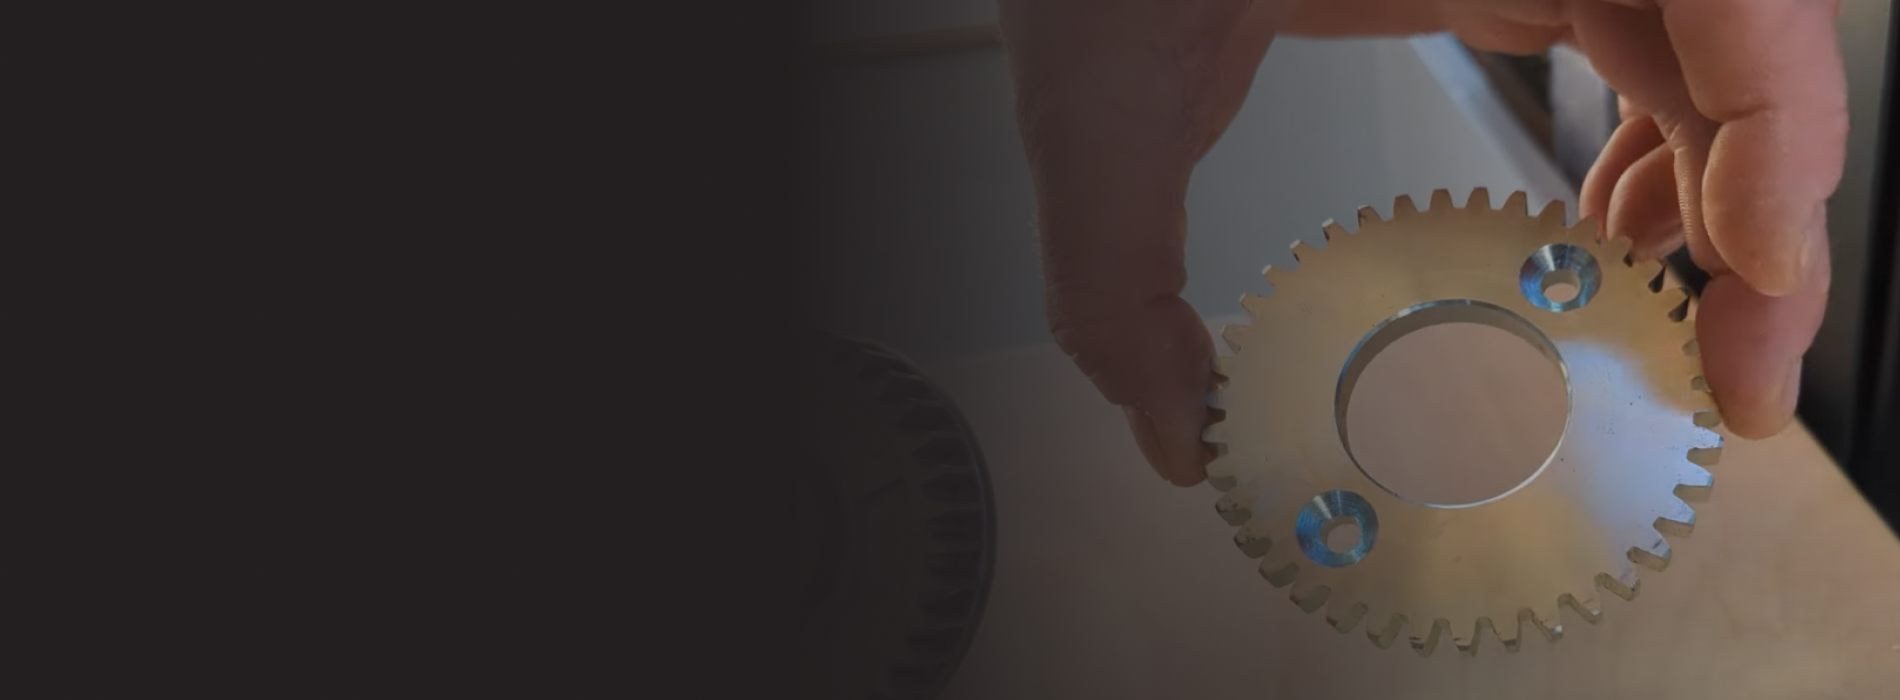
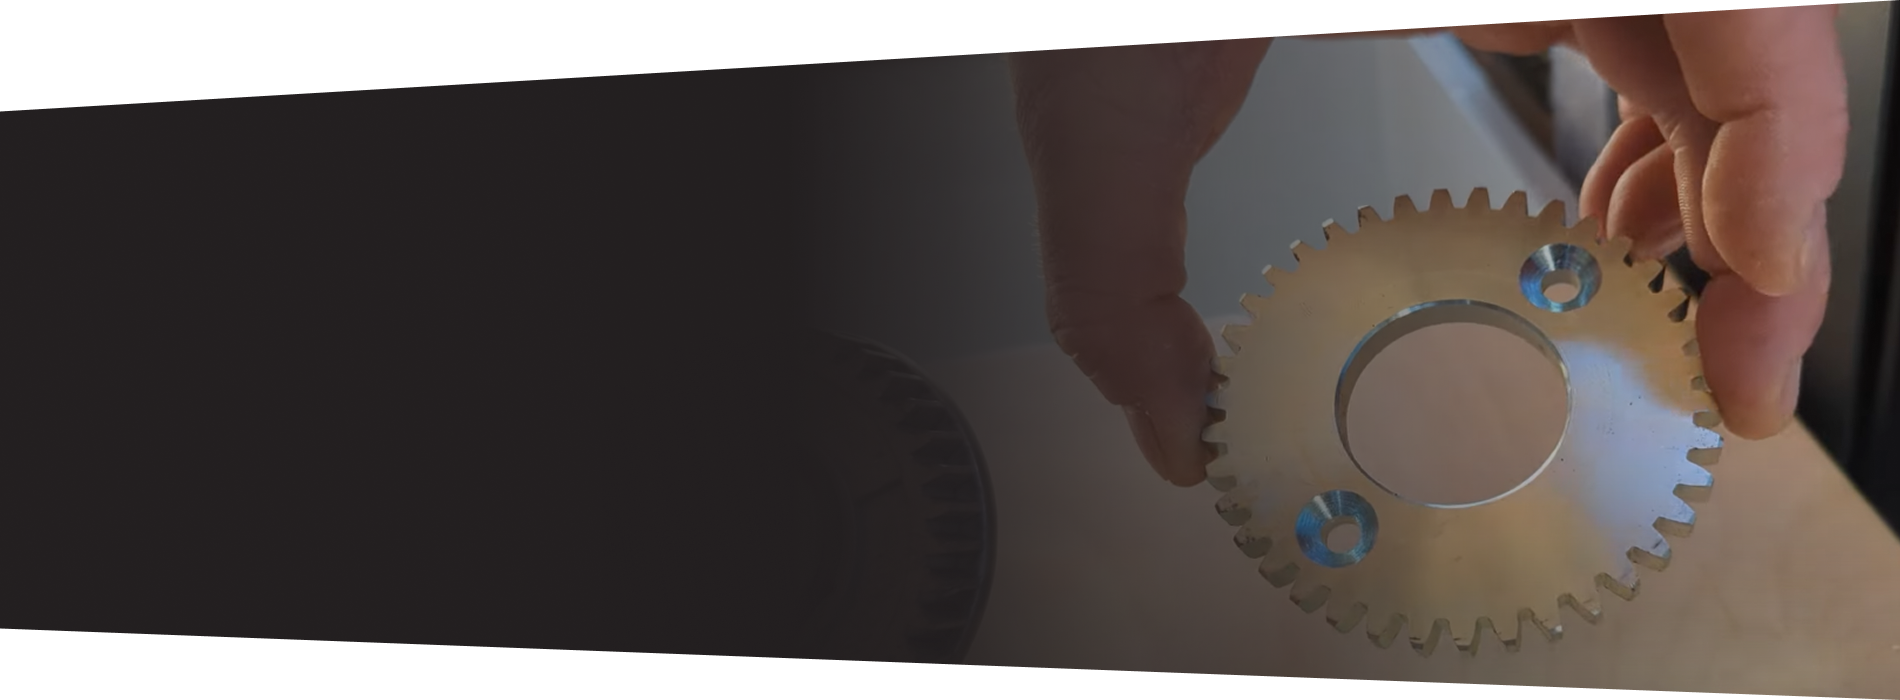
Improve optimized section

Changed region(s): [[0.0, 0.0, 0.9937, 0.18], [0.0, 0.9, 0.9937, 1.0]]

diff --git a/src/modules/home/components/optimiert.tsx b/src/modules/home/components/optimiert.tsx
@@ -12,12 +12,12 @@ const SeriesCircle = ({
   isActive: boolean;
 }) => (
   <div
-    className={`relative flex h-12 w-12 items-center justify-center rounded-full border border-white bg-grey-90/80 sm:h-20 sm:w-20 ${
+    className={`relative flex h-12 w-12 items-center justify-center rounded-full border border-white bg-grey-90/80 lg:h-20 lg:w-20 ${
       isActive ? "" : "opacity-50"
     }`}
     style={{ boxShadow: "inset 0 0 0 4px #ED1C24" }}
   >
-    <span className="text-2xl font-bold text-white sm:text-4xl">{number}</span>
+    <span className="text-2xl font-bold text-white lg:text-4xl">{number}</span>
   </div>
 );
 
@@ -41,7 +41,7 @@ const Timeline = () => (
 const OptimiertSection = () => {
   const t = useTranslations("home.optimized");
   return (
-    <section className="relative w-full overflow-hidden bg-grey-90 sm:h-[700px]">
+    <section className="relative w-full overflow-hidden sm:h-[700px]">
       {/* Desktop background */}
       <img
         src={Hintergrund.src}
@@ -54,15 +54,12 @@ const OptimiertSection = () => {
         className="absolute block h-full w-full object-cover sm:hidden"
         alt="Optimiert mobil"
       />
-      <div className="absolute inset-0 bg-grey-90 opacity-50"></div>
-      <div className="relative z-10 flex h-full w-full flex-col content-center items-end justify-between gap-y-5 px-5 py-12 sm:items-center sm:px-10 sm:py-24 xl:flex-row 2xl:px-24 xlarge:px-40">
+      <div className="relative z-10 flex h-full w-full flex-col place-content-center gap-y-5 px-5 py-12 max-sm:items-end sm:gap-y-10 sm:px-10 sm:py-24 lg:justify-between xl:flex-row xl:items-center 2xl:px-24 xlarge:px-40">
         <div className="flex flex-col gap-y-5 sm:gap-y-16">
-          <h2 className="font-title text-4xl uppercase text-white sm:text-7xl">
+          <h2 className="font-title text-4xl uppercase text-white sm:text-6xl">
             {t("title")}
           </h2>
-          <p className="max-w-2xl text-lg text-white sm:text-2xl">
-            {t("text")}
-          </p>
+          <p className="max-w-2xl text-lg text-white sm:text-xl">{t("text")}</p>
         </div>
         <Timeline />
       </div>
